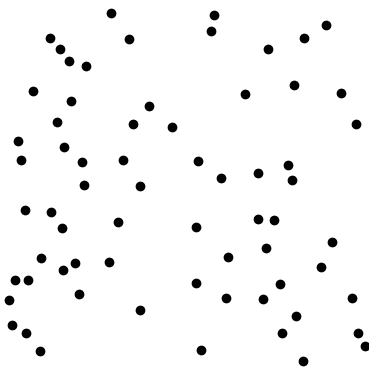
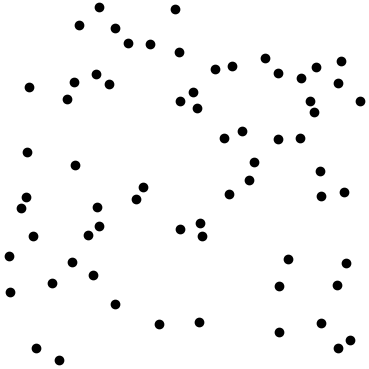
added dot images

diff --git a/public/javascripts/survey.js b/public/javascripts/survey.js
@@ -1,4 +1,3 @@
-
 //survey template
 Survey
     .StylesManager
@@ -164,6 +163,38 @@ let json = {
             ]
         },
         {
+            type: "rating",
+            isRequired: false,
+            name: "ranking_difficulty",
+            title: "One a scale of 0-5, how easy were the ranking questions?",
+            minRateDescription: "Very difficult",
+            maxRateDescription: "Very easy"
+        },
+        {
+            type: "rating",
+            isRequired: false,
+            name: "rating_difficulty",
+            title: "One a scale of 0-5, how easy were the numberical estimation questions?",
+            minRateDescription: "Very difficult",
+            maxRateDescription: "Very easy"
+        },
+        {
+            type: "rating",
+            isRequired: false,
+            name: "ranking_ui",
+            title: "One a scale of 0-5, how much did you like the user interface of the ranking questions?",
+            minRateDescription: "Not enjoyable",
+            maxRateDescription: "Very enjoyable"
+        },
+        {
+            type: "rating",
+            isRequired: false,
+            name: "rating_ui",
+            title: "One a scale of 0-5, how much did you like the user interface of the numberical estimation questions?",
+            minRateDescription: "Not enjoyable",
+            maxRateDescription: "Very enjoyable"
+        },
+        {
             type: "radiogroup",
             //hasOther: true,
             isRequired: false,
@@ -245,4 +276,3 @@ function startFromSurvey(userID) {
     })
 
 };
-

diff --git a/public/javascripts/rankings.js b/public/javascripts/rankings.js
@@ -34,6 +34,7 @@ function renderQuestion(question, id, userID, frames){
     var gap4images
     var space
 
+    //specify size based on image gaps 
     if(topNSize === 3){
         rankingImageSize = divWidth/5;
         space = rankingImageSize;
@@ -88,7 +89,6 @@ function renderQuestion(question, id, userID, frames){
         .style("width", labelDivWidth)
 
     //Grouping for candidates
-    //let margin4pool = { top: 10, right: 0, bottom: 0, left: 0 }
     let svg4pool_width = "100%";
     let svg4pool_height = (rankingImageSize) + 70;
     let svg4pool = d3.select(".candidatePoolContents").append("svg")
@@ -200,7 +200,6 @@ function renderQuestion(question, id, userID, frames){
 
             //console.log("length: ", rankingOrder.length)
             
-            
             if (rankingOrder.length > (frames - 1)){
 
                 var endTime = new Date().getTime();
@@ -260,7 +259,9 @@ function renderQuestion(question, id, userID, frames){
             exitStatus = 1
             var endTime = new Date().getTime();
             var timeSpent = endTime- startTime;
-            sendData(rankingOrder, id, userID, timeSpent)
+            if(rankingOrder.length > (frames - 1)){
+                sendData(rankingOrder, id, userID, timeSpent)
+            }
         })
     
 }

diff --git a/routes/loadQuestion.js b/routes/loadQuestion.js
@@ -45,7 +45,6 @@ const loadModule = {
                 questionIndex = indexOrder[0]
                 currentBatch = questionIndex[0]
                 user.saveCurrentQuestion(JSON.stringify(question2load), currentBatch, questionLength)
-                console.log(user.question())
                 
                 res.render('rankings', { userID: user.id , id: user.activityID , type: "rankings", frames: user.frames(), question: user.question()})
             } else{
@@ -68,9 +67,9 @@ const loadModule = {
         if (check === null){
           res.render('rankings', {userID : user.id, id: user.activityID , type: "rankings", frames: user.frames(), question: user.question(), error: "ERROR: Please submit a complete ranking"})
           return;
-        } 
-        
-        res.render('ratings', {userID: user.id, id: user.activityID, type: "ratings", picture: 0, question: user.question()});
+        } else{
+          res.render('ratings', {userID: user.id, id: user.activityID, type: "ratings", picture: 0, question: user.question()});
+        }
 
       });
 

diff --git a/routes/activity.js b/routes/activity.js
@@ -20,6 +20,9 @@ let users = [];
 //Batch object
 const Batch = require('../batch');
 
+
+//TODO: Change this to be stored in "batch" collection in db
+
 //populate batches
 masterBatch = []
 batch3 = []
@@ -58,7 +61,6 @@ masterBatch.push(batch6)
 //function to get current issues of Users
 let getUserInstance = uid => users.find(user => user.id === uid);
 
-
 //store userID and load first activity
 router.post('/', function(req,res,next){
 
@@ -77,6 +79,9 @@ router.post('/', function(req,res,next){
     currentUser = getUserInstance(req.body.userID);
   }
 
+
+  //TODO: Update this to be used for master batch section of 
+  
   //assign order of frames seen
   userOrder = shuffle([3,4,5,6]);
   console.log("order: ", userOrder)
@@ -228,7 +233,7 @@ router.post('/:id/ratings/:picture/:userID', function(req,res,next){
   }
 
   //load survey if activity is complete
-  if(currentUser.activityID === 8){
+  if(currentUser.activityID === 5){
     res.render('survey', {userID: currentUser.id})
     return
   } 

diff --git a/routes/storeQuestion.js b/routes/storeQuestion.js
@@ -18,7 +18,8 @@ const storeModule = {
 
             var group = group2save.map(Number);
             console.log(group)
-
+            
+            //connect to db
             let client = yield MongoClient.connect(url);
             const db = client.db('ratingsrankingsframes')
             let responseCol = db.collection('responses')

diff --git a/batch.js b/batch.js
@@ -1,5 +1,6 @@
 var shuffle = require('shuffle-array');
 
+
 module.exports = class batch {
     
     constructor(size){
@@ -35,4 +36,5 @@ module.exports = class batch {
 
         return questions
     }
+
 }

diff --git a/dataOperations/testNode.js b/dataOperations/testNode.js
@@ -1,0 +1,1 @@
+console.log(masterBatch)

diff --git a/dataOperations/data_to_json.py b/dataOperations/data_to_json.py
@@ -1,69 +1,109 @@
+import pymongo
 import json
-from scipy.spatial import distance
+import time
+import datetime
 
-gtruth = [50,51,52,53,54,55,56,57,58,59,60,61,62,63,64,65,66,67,68,69,70,71,72,73,74,75,76,77,78,79,80,81]
+def to_rank(n):
+	return n - 49
+
+url = 'mongodb://10.218.105.218:27017/'
+#url = 'mongodb://localhost:27017/'
+
+#set up database and all columns 
+client = pymongo.MongoClient(url)
+db = client['ratingsrankingsdistributed']
+usersCol = db['users']
+responsesCol = db['responses']
+
+dataArray = []
+
+#iterate over users
+for user in usersCol.find():
+	
+	print(user)
+
+	rankings = []
+	ratings = []
+
+	ground_truth = user['group4Answers']
+	#get username
+	userName = user['user']
+
+	#get the users responses for each question 
+	for i in range(1,5):
+
+		#get ground truth for specified question
+		questionOrder = ground_truth[i-1]
+
+		pictures = []
+
+		rankResponse = responsesCol.find_one({"user": userName, "collection": str(i), "type": "ranking"})
+        
+		if (rankResponse is None):
+			rank = [0,0,0,0]
+		else:
+			rank = rankResponse["ranking"]
+			rank = [int(x) for x in rank]
+			newrank = map(to_rank,rank)
+			print('rank ' + str(newrank))
+		
+		rankings.append(newrank)
+
+		#get pictures
+		for j in range(4):
+			
+			ratingResponse = responsesCol.find_one({"user": userName, "picture": str(j), "collection": str(i), "type": "rating"})
+
+			if ratingResponse is None:
+				ratingResponse = 0
+			else:
+				ratingResponse = ratingResponse["estimate"]
+				ratingResponse = int(float(ratingResponse))
+				pictures.append(ratingResponse)
+
+		#sort ratings in order of ground truth
+		for k in range(1, len(questionOrder)):
+			key = questionOrder[k] 
+			key2 = pictures[k]
+			l = k-1
+
+			while l>=0 and key < questionOrder[l]:
+				questionOrder[l+1] = questionOrder[l]
+				pictures[l+1] = pictures[l]
+				l = l - 1
+			pictures[l+1] = key2
+			questionOrder[l+1] = key
+
+		ratings.append(pictures)
+
+	#block to fix my errors
+	
+	rank_dif = None
+	rate_dif = None
+	rank_ui = None
+	rate_ui = None	
+
+	if user["surveyResults"] is not None:
+		item = user["surveyResults"]
+		print(item)
+		rank_dif, rate_dif, rank_ui, rate_ui = fixResults(item, rank_dif, rate_dif, rank_ui, rate_ui)
+		
+	
+	data = {
+		"rank_dif": rank_dif,
+		"rate_dif": rate_dif,
+		"rank_ui": rank_ui,
+		"rate_ui": rate_ui,
+ 		"rankings": rankings,
+		"ratings": ratings,
+		"groundtruth": ground_truth
+	}
+
+	dataArray.append(data)
 
 
-def findPosition(num, groundtruth):
-    found = None
-    for i in range(len(groundtruth)):
-        for j in range(len(groundtruth[i])):
-            if int(num) == int(groundtruth[i][j]):
-                return i,j
+rightNow = datetime.datetime.today().strftime('%m-%d-%Y')
+file_name = rightNow + ".json" 
 
-with open("responseData 12 - 4.json", "r") as read_file:
-    data = json.load(read_file)
-
-rank_dif = 0
-rate_dif = 0
-rank_ui = 0
-rate_ui = 0
-count = 0
-responseCount = 0
-avg_ratings = [0] * 32
-
-for response in data:
-    groundtruth = response["groundtruth"]
-    rating = response["ratings"]
-
-    #get counts for usability scores
-    if None not in(response["rank_dif"],response["rate_dif"],response["rank_ui"],response["rate_ui"]):
-        rank_dif += int(response["rank_dif"])
-        rate_dif += int(response["rate_dif"])
-        rank_ui += int(response["rank_ui"])
-        rate_ui += int(response["rate_ui"])
-
-        count += 1
-    
-    for i in range(len(gtruth)):
-        x,y = findPosition(gtruth[i], groundtruth)
-        avg_ratings[i] += rating[x][y]
-
-    responseCount += 1
-
-
-
-avg_ratings = [x / responseCount for x in avg_ratings]
-print(avg_ratings)
-
-rank_dif = rank_dif/count
-rate_dif = rate_dif/count
-rank_ui = rank_ui/count
-rate_ui = rate_ui/count
-
-print("count " + str(count))
-print("rank_dif " + str(rank_dif))
-print("rate_dif " + str(rate_dif))
-print("rank_ui " + str(rank_ui)) 
-print("rate_ui " + str(rate_ui))
-
-vec = [45,46,46,47,47,48,48,49,49,50,50,51,51,52,52,53,53,54,54,55,55,56,56,57,57,58,58,59,59,60,60,61]
-
-print(vec)
-print(avg_ratings)
-
-dst1 = distance.euclidean(vec, gtruth)
-dst2 = distance.euclidean(avg_ratings, gtruth)
-
-print(dst1)
-print(dst2)
+with open(str(file_name), 'w+') as outfile:
+	json.dump(dataArray, outfile) 

diff --git a/dotgenerator.py b/dotgenerator.py
@@ -18,7 +18,7 @@ pictureData = []
 os.chdir(PATH)
 
 #each picture per noise level
-for j in range(40):
+for j in range(60):
     N = Base + j
 
     pictureData.append(N)
@@ -53,8 +53,8 @@ for j in range(40):
 
         
     axes = plt.gca()
-    axes.set_xlim([-0.01,1.01])
-    axes.set_ylim([-0.01,1.01])
+    axes.set_xlim([-0.02,1.02])
+    axes.set_ylim([-0.02,1.02])
 
     plt.axes().set_aspect('equal')
     plt.axis('off')
